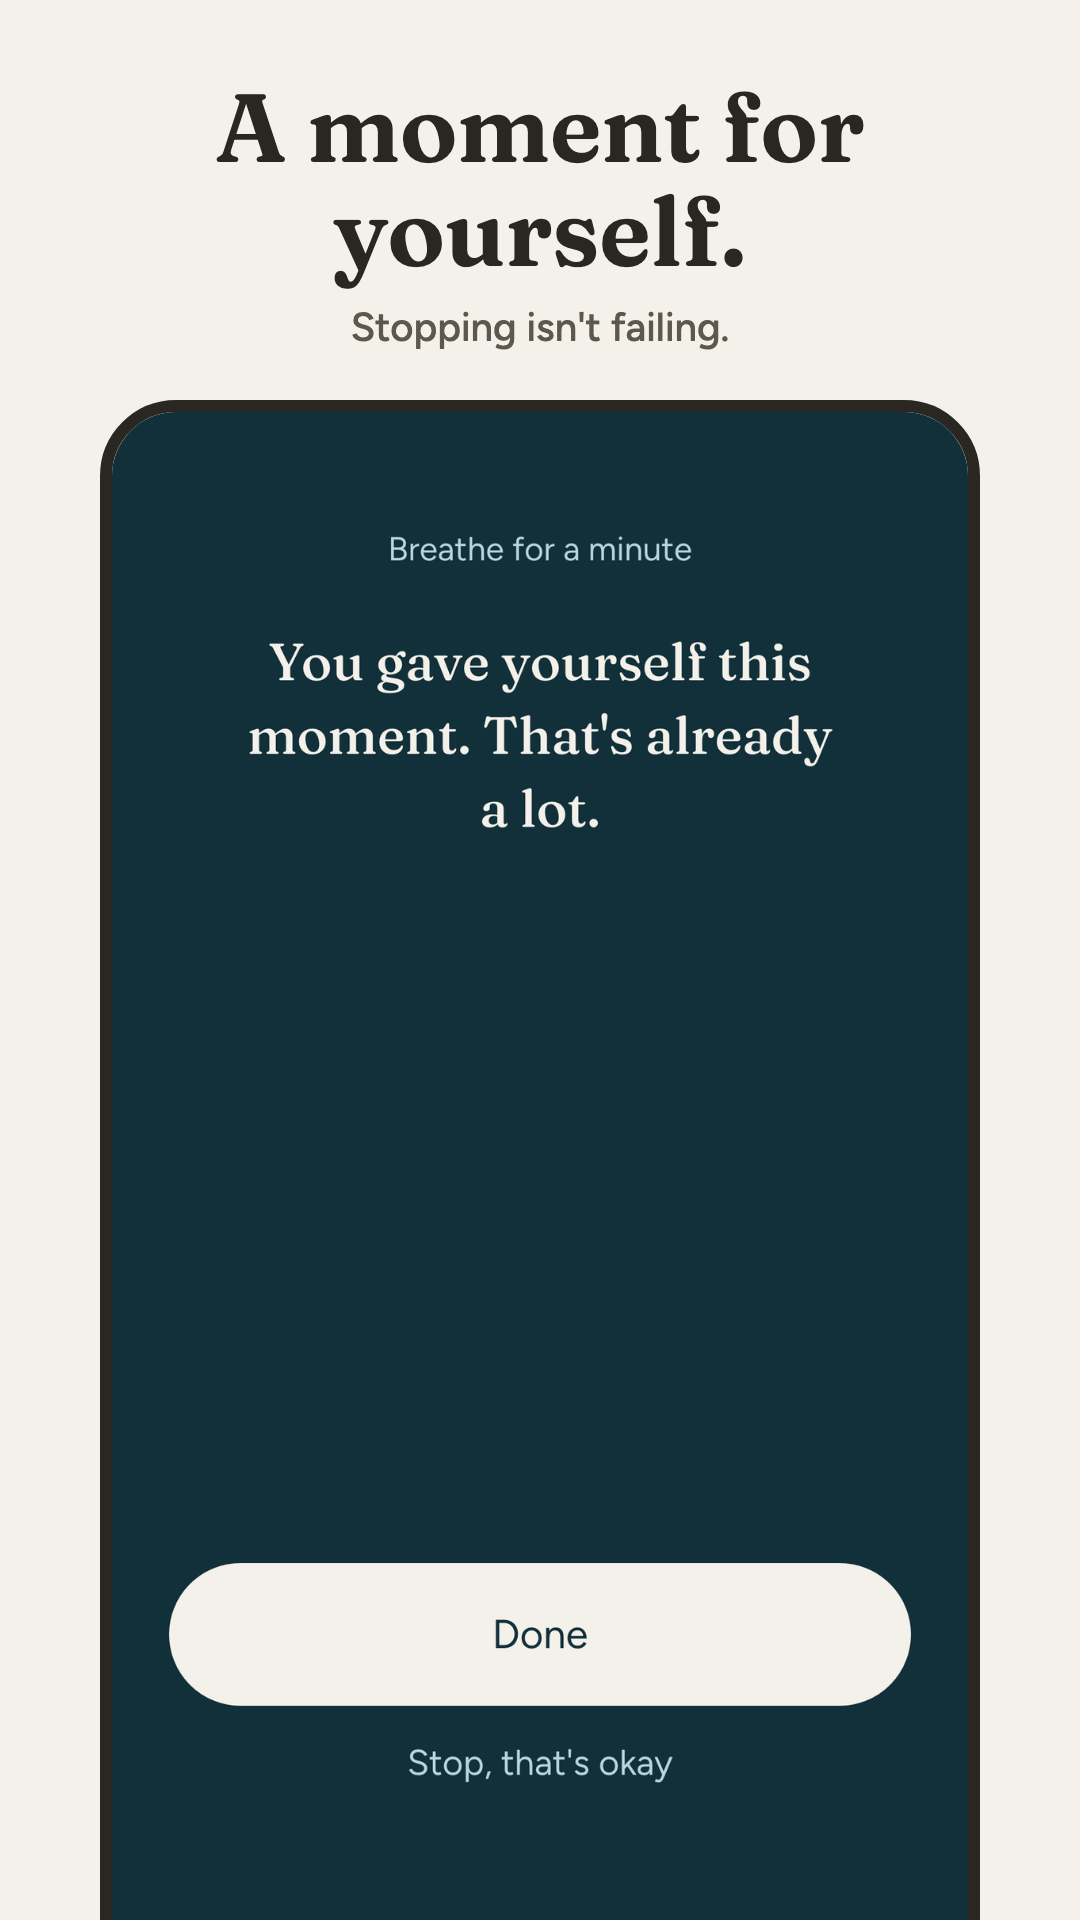
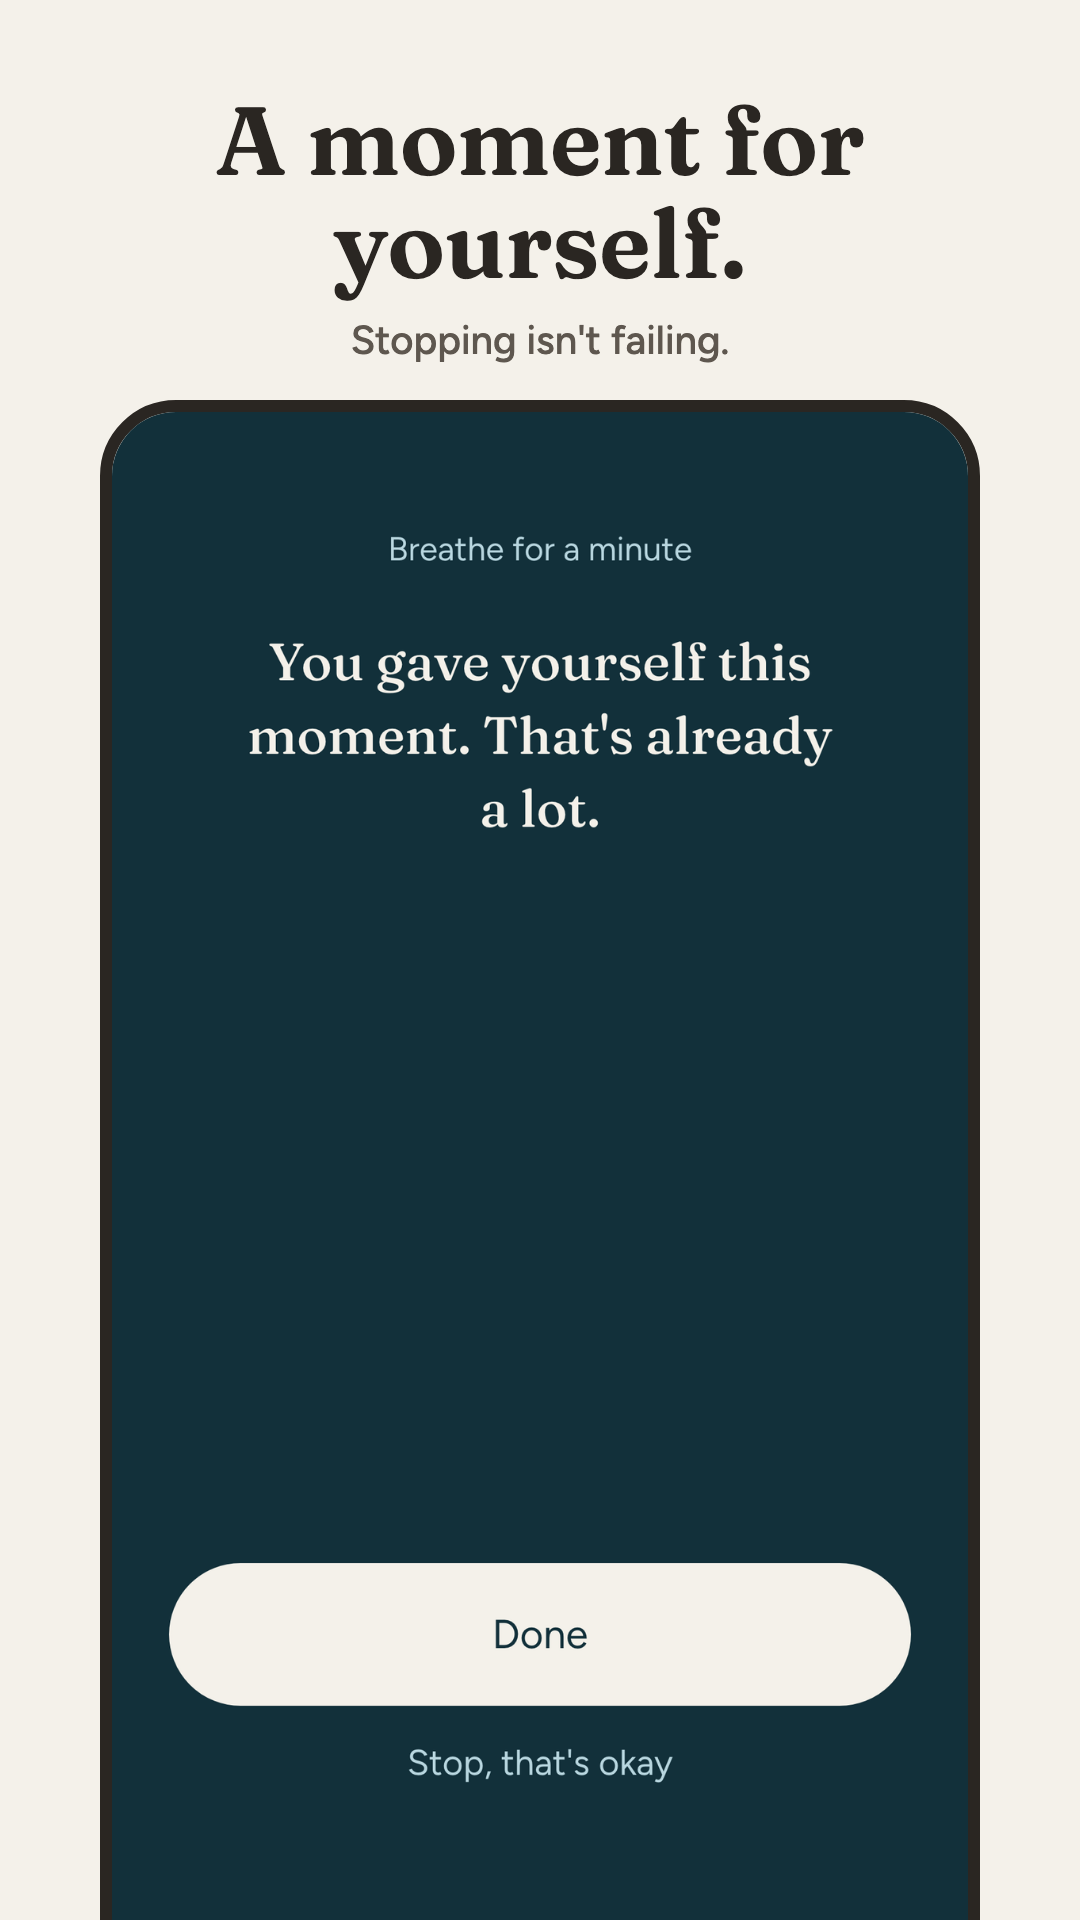
S46: store captures never ship blank, retry on flake; tiles regenerated

Changed region(s): [[0.1833, 0.0312, 0.7028, 0.1875], [0.6722, 0.0312, 0.7944, 0.0938]]

diff --git a/store/listing/test_build_store_tiles.py b/store/listing/test_build_store_tiles.py
@@ -1,5 +1,6 @@
 import importlib.util
 import os
+import tempfile
 import unittest
 
 from PIL import Image
@@ -120,6 +121,27 @@ class TheBleedNeverCutsALineOfText(unittest.TestCase):
         with self.assertRaises(ValueError):
             t.check_clean_cuts(ink, 19)
 
+    def test_a_line_ending_on_the_row_just_above_the_bottom_cut_raises(self):
+        t = load()
+        cut = self.bottom_cut(t, 0)
+        ink = t.ink_rows(sand_with_line(cut - 5, cut))
+        with self.assertRaises(ValueError):
+            t.check_clean_cuts(ink, 0)
+
+    def test_a_line_ending_on_the_row_just_above_the_top_cut_raises(self):
+        t = load()
+        ink = t.ink_rows(sand_with_line(10, 18))
+        with self.assertRaises(ValueError):
+            t.check_clean_cuts(ink, 18)
+
+    def test_a_two_pixel_speck_is_not_a_line_of_text_but_three_pixels_are(self):
+        t = load()
+        for width, is_ink in ((2, False), (3, True)):
+            with self.subTest(width=width):
+                img = Image.new("RGB", (1080, 1920), SAND)
+                img.paste(INK, (100, 500, 100 + width, 501))
+                self.assertEqual(t.ink_rows(img)[500], is_ink)
+
     def test_every_real_capture_is_cut_cleanly_at_its_crop_top(self):
         t = load()
         for locale in ("fr", "en"):
@@ -127,6 +149,36 @@ class TheBleedNeverCutsALineOfText(unittest.TestCase):
                 with self.subTest(locale=locale, tile=name):
                     ink = t.ink_rows(Image.open(t.capture_path(locale, capture)))
                     t.check_clean_cuts(ink, crop_top)
+
+
+class ComposeRefusesABlankCapture(unittest.TestCase):
+    def test_a_blank_capture_never_becomes_a_tile(self):
+        t = load()
+        with tempfile.TemporaryDirectory() as tmp:
+            blank = os.path.join(tmp, "blank.png")
+            Image.new("RGB", (1080, 1920), "white").save(blank)
+            os.makedirs(os.path.join(tmp, "out", "fr"))
+            t.OUT = os.path.join(tmp, "out")
+            t.capture_path = lambda locale, name: blank
+            t.run_chrome = lambda chrome, args, raw, label: Image.new(
+                "RGB", (t.TILE_W, t.TILE_H), SAND
+            ).save(raw)
+            with self.assertRaises(RuntimeError):
+                t.compose("chrome", "fr", "01-x", "c", 0, "Hi", "there", tmp)
+            self.assertEqual([], os.listdir(os.path.join(tmp, "out", "fr")))
+
+
+class TheCopyBlockSitsAtTheSameHeightWhateverTheHeadlineLength(unittest.TestCase):
+    def test_every_real_tile_ends_its_copy_within_a_few_rows_of_the_others(self):
+        t = load()
+        ends = {}
+        for locale in ("fr", "en"):
+            for name, *_ in t.TILES[locale]:
+                tile = Image.open(os.path.join(t.OUT, locale, f"{name}-1080x1920.png"))
+                ink = t.ink_rows(tile.crop((0, 0, t.TILE_W, t.PHONE_TOP)))
+                ends[f"{locale}/{name}"] = max(y for y, on in enumerate(ink) if on)
+        spread = max(ends.values()) - min(ends.values())
+        self.assertLessEqual(spread, 16, ends)
 
 
 if __name__ == "__main__":

diff --git a/store/listing/test_build_screenshots.py b/store/listing/test_build_screenshots.py
@@ -124,11 +124,82 @@ class BlankDetect(unittest.TestCase):
             with self.assertRaises(RuntimeError):
                 bs.assert_not_blank(path)
 
+    def test_a_near_white_image_with_a_few_colours_still_raises(self):
+        from PIL import Image
+
+        bs = load()
+        with tempfile.TemporaryDirectory() as tmp:
+            path = os.path.join(tmp, "speckled.png")
+            img = Image.new("RGB", (100, 100), "white")
+            for i in range(5):
+                img.putpixel((i, 0), (250 - i, 250, 250))
+            img.save(path)
+            with self.assertRaises(RuntimeError):
+                bs.assert_not_blank(path)
+
     def test_a_real_capture_passes(self):
         bs = load()
         bs.assert_not_blank(
             os.path.join(HERE, "screenshots", "fr", "01-aujourdhui-1080x1920.png")
         )
+
+
+class PublishKeepsBlankCapturesOutOfTheTrackedFiles(unittest.TestCase):
+    def setUp(self):
+        self.bs = load()
+        tmp = tempfile.TemporaryDirectory()
+        self.addCleanup(tmp.cleanup)
+        self.bs.WORK = os.path.join(tmp.name, "work")
+        os.makedirs(self.bs.WORK)
+        self.out = os.path.join(tmp.name, "01-x-1080x1920.png")
+        self.calls = 0
+
+    def blank(self, path):
+        from PIL import Image
+
+        Image.new("RGB", (100, 100), "white").save(path)
+
+    def real(self, path):
+        from PIL import Image
+
+        img = Image.new("RGB", (100, 100), "white")
+        for x in range(100):
+            for y in range(100):
+                img.putpixel((x, y), (x * 2, y * 2, (x + y) % 256))
+        img.save(path)
+
+    def test_a_blank_capture_never_replaces_the_tracked_file(self):
+        self.real(self.out)
+        before = open(self.out, "rb").read()
+
+        def shoot(path):
+            self.calls += 1
+            self.blank(path)
+
+        with self.assertRaises(RuntimeError):
+            self.bs.publish(shoot, self.out)
+        self.assertEqual(before, open(self.out, "rb").read())
+        self.assertEqual(self.calls, self.bs.CAPTURE_ATTEMPTS)
+
+    def test_a_blank_first_attempt_is_retried_and_the_recovery_is_published(self):
+        def shoot(path):
+            self.calls += 1
+            (self.blank if self.calls == 1 else self.real)(path)
+
+        self.bs.publish(shoot, self.out)
+        self.assertEqual(self.calls, 2)
+        self.bs.assert_not_blank(self.out)
+
+    def test_a_good_capture_is_published_at_the_play_size_after_one_attempt(self):
+        from PIL import Image
+
+        def shoot(path):
+            self.calls += 1
+            self.real(path)
+
+        self.bs.publish(shoot, self.out)
+        self.assertEqual(self.calls, 1)
+        self.assertEqual(Image.open(self.out).size, (self.bs.OUT_W, self.bs.OUT_H))
 
 
 if __name__ == "__main__":

diff --git a/store/listing/build_screenshots.py b/store/listing/build_screenshots.py
@@ -128,6 +128,36 @@ def assert_not_blank(path):
         raise RuntimeError(f"{path}: blank capture (<= {BLANK_MAX_COLOURS} colours)")
 
 
+CAPTURE_ATTEMPTS = 3
+
+
+def publish(shoot, out, attempts=CAPTURE_ATTEMPTS):
+    """Shoot into WORK and move into `out` only a capture that has content.
+
+    Chrome sometimes writes a blank PNG when the virtual-time budget runs out
+    before the wasm app has rendered (about one run in two on a busy machine).
+    A blank shot is retried; the tracked file is never touched until a good
+    one exists, so a failed run leaves the previous captures in place.
+    """
+    from PIL import Image
+
+    raw = os.path.join(WORK, os.path.basename(out))
+    for attempt in range(1, attempts + 1):
+        shoot(raw)
+        Image.open(raw).convert("RGB").resize((OUT_W, OUT_H), Image.LANCZOS).save(raw, optimize=True)
+        try:
+            assert_not_blank(raw)
+        except RuntimeError:
+            if attempt == attempts:
+                raise
+            print(f"  blank capture of {os.path.basename(out)}, retry {attempt}/{attempts - 1}")
+            continue
+        if attempt > 1:
+            print(f"  recovered {os.path.basename(out)} on attempt {attempt}")
+        os.replace(raw, out)
+        return out
+
+
 def today_as_stored():
     """The integer a stored date carries.
 
@@ -225,7 +255,12 @@ def serve(directory):
 
 
 def capture(locale, name, route, out_dir):
-    """Shoot one route, then kill the browser.
+    out = os.path.join(out_dir, f"{name}-{OUT_W}x{OUT_H}.png")
+    return publish(lambda raw: chrome_shot(locale, name, route, raw), out)
+
+
+def chrome_shot(locale, name, route, out):
+    """Shoot one route into `out`, then kill the browser.
 
     Chrome writes the PNG when its virtual-time budget expires but does not
     reliably exit afterwards on a page that keeps animating -- Kayzen's ritual
@@ -238,9 +273,7 @@ def capture(locale, name, route, out_dir):
     so without `--force-prefers-reduced-motion` the PNG catches a near-invisible
     screen next to a crisp nav.
     """
-    from PIL import Image
-
-    out = os.path.join(out_dir, f"{name}-{OUT_W}x{OUT_H}.png")
+    os.makedirs(WORK, exist_ok=True)
     if os.path.exists(out):
         os.remove(out)
 
@@ -281,10 +314,6 @@ def capture(locale, name, route, out_dir):
             proc.wait(timeout=10)
         except subprocess.TimeoutExpired:
             proc.kill()
-
-    Image.open(out).convert("RGB").resize((OUT_W, OUT_H), Image.LANCZOS).save(out, optimize=True)
-    assert_not_blank(out)
-    return out
 
 
 def main():

diff --git a/store/test_verify_assets.py b/store/test_verify_assets.py
@@ -71,6 +71,43 @@ class TileRules(Scratch):
                 self.assertEqual(not va.tile_problems(path), ok)
 
 
+class BlankPhoneRules(Scratch):
+    def tile(self, content):
+        """A tile: sand ground, an ink headline bar, and a phone whose screen is `content`."""
+        path = os.path.join(self.dir, "t.png")
+        img = Image.new("RGB", (1080, 1920), SAND)
+        img.paste((42, 38, 34), (100, 100, 900, 200))
+        if content:
+            for x in range(200, 900, 7):
+                for y in range(500, 1800, 11):
+                    img.putpixel((x, y), (x % 256, y % 256, (x + y) % 256))
+        img.save(path)
+        return path
+
+    def test_an_empty_phone_under_a_headline_is_refused(self):
+        problems = va.blank_phone_problems(self.tile(content=False))
+        self.assertTrue(any("blank" in p for p in problems), problems)
+
+    def test_a_phone_showing_a_screen_passes(self):
+        self.assertEqual(va.blank_phone_problems(self.tile(content=True)), [])
+
+
+class TileFileSetRules(unittest.TestCase):
+    def names(self, locale):
+        return [f"{n}-1080x1920.png" for n, *_ in va.TILES[locale]]
+
+    def test_exactly_the_tiles_in_the_table_pass(self):
+        self.assertEqual(va.tile_name_problems("fr", self.names("fr")), [])
+
+    def test_a_stale_tile_left_by_a_rename_is_refused(self):
+        problems = va.tile_name_problems("fr", self.names("fr") + ["03-old-1080x1920.png"])
+        self.assertTrue(any("03-old-1080x1920.png" in p for p in problems), problems)
+
+    def test_a_missing_tile_is_refused(self):
+        problems = va.tile_name_problems("fr", self.names("fr")[1:])
+        self.assertTrue(any("01-aujourdhui-1080x1920.png" in p for p in problems), problems)
+
+
 class TileSetRules(Scratch):
     def tiles(self, count, size=(1080, 1920)):
         return [self.image(f"t{i}.png", size=size) for i in range(count)]
@@ -167,8 +204,10 @@ class RealAssets(unittest.TestCase):
             with self.subTest(locale=locale):
                 paths = sorted(glob.glob(os.path.join(va.ROOT, "store", "listing", "tiles", locale, "*.png")))
                 self.assertEqual(va.tile_set_problems(paths), [])
+                self.assertEqual(va.tile_name_problems(locale, [os.path.basename(p) for p in paths]), [])
                 for path in paths:
                     self.assertEqual(va.tile_problems(path), [], path)
+                    self.assertEqual(va.blank_phone_problems(path), [], path)
 
     def test_real_feature_graphics_pass(self):
         for locale in ("fr", "en"):

diff --git a/store/verify_assets.py b/store/verify_assets.py
@@ -10,6 +10,7 @@ Usage: python3 store/verify_assets.py
 """
 
 import glob
+import importlib.util
 import os
 import re
 import sys
@@ -78,6 +79,39 @@ def tile_problems(path):
     return problems
 
 
+def listing_module(name):
+    """Load a store/listing script, so the layout and the tile table have one owner."""
+    spec = importlib.util.spec_from_file_location(
+        name, os.path.join(ROOT, "store", "listing", f"{name}.py")
+    )
+    module = importlib.util.module_from_spec(spec)
+    spec.loader.exec_module(module)
+    return module
+
+
+tiles = listing_module("build_store_tiles")
+TILES = tiles.TILES
+BLANK_MAX_COLOURS = listing_module("build_screenshots").BLANK_MAX_COLOURS
+
+
+def blank_phone_problems(path):
+    """An empty phone under a headline passes every format check, so look inside the frame."""
+    left = (tiles.TILE_W - tiles.PHONE_W) // 2 + tiles.FRAME
+    box = (left, tiles.PHONE_TOP + tiles.FRAME, left + tiles.SCREEN_W, tiles.TILE_H)
+    with Image.open(path) as image:
+        screen = image.convert("RGB").crop(box)
+    if screen.getcolors(maxcolors=BLANK_MAX_COLOURS) is not None:
+        return [f"the phone shows a blank screen (<= {BLANK_MAX_COLOURS} colours)"]
+    return []
+
+
+def tile_name_problems(locale, names):
+    expected = {f"{name}-{tiles.TILE_W}x{tiles.TILE_H}.png" for name, *_ in TILES[locale]}
+    return [f"{name} is not in the tile table" for name in sorted(set(names) - expected)] + [
+        f"{name} is missing" for name in sorted(expected - set(names))
+    ]
+
+
 def tile_set_problems(paths):
     problems = []
     if not 4 <= len(paths) <= 8:
@@ -139,9 +173,12 @@ def check_tiles():
         paths = sorted(glob.glob(rel("store", "listing", "tiles", locale, "*.png")))
         report(tile_set_problems(paths), f"{locale}: {len(paths)} tiles",
                "4 to 8, at least 4 at 1080 px")
+        report(tile_name_problems(locale, [os.path.basename(p) for p in paths]),
+               f"{locale} tile files", "exactly the tiles in the table")
         for path in paths:
-            report(tile_problems(path), f"{locale}/{os.path.basename(path)}",
-                   "RGB, sides, ratio and size within Play's limits")
+            report(tile_problems(path) + blank_phone_problems(path),
+                   f"{locale}/{os.path.basename(path)}",
+                   "RGB, sides, ratio and size within Play's limits, phone shows a screen")
 
 
 def check_alt_text():

diff --git a/store/listing/build_store_tiles.py b/store/listing/build_store_tiles.py
@@ -90,7 +90,12 @@ TILE_HTML = """<!doctype html>
     position: relative;
     text-align: center;
   }}
-  .copy {{ position: absolute; top: 76px; left: 48px; right: 48px; }}
+  /* bottom-aligned in the band: the subline sits at one height, a second headline line grows upward */
+  .copy {{
+    position: absolute; top: 0; left: 48px; right: 48px; height: {band}px;
+    box-sizing: border-box; padding-bottom: 20px;
+    display: flex; flex-direction: column; justify-content: flex-end;
+  }}
   .headline {{
     font-family: 'Fraunces', Georgia, serif;
     font-size: 96px;
@@ -222,13 +227,14 @@ def compose(chrome, locale, name, capture, crop_top, headline, subline, work):
 
     check_copy(headline, subline)
     shot = capture_path(locale, capture)
+    store_module().assert_not_blank(shot)
     check_clean_cuts(ink_rows(Image.open(shot)), crop_top)
 
     page = TILE_HTML.format(
         title=html_escape.escape(f"{locale} {name}"),
         fonts=FONTS.replace(os.sep, "/"),
         shot=shot.replace(os.sep, "/"),
-        w=TILE_W, h=TILE_H, sand=SAND, ink=INK, muted=MUTED,
+        w=TILE_W, h=TILE_H, band=BAND_MAX, sand=SAND, ink=INK, muted=MUTED,
         phone_top=PHONE_TOP, phone_left=(TILE_W - PHONE_W) // 2,
         phone_w=PHONE_W, phone_h=TILE_H, frame=FRAME, screen_w=SCREEN_W,
         crop=round(crop_top * SCREEN_W / CAPTURE_W),
